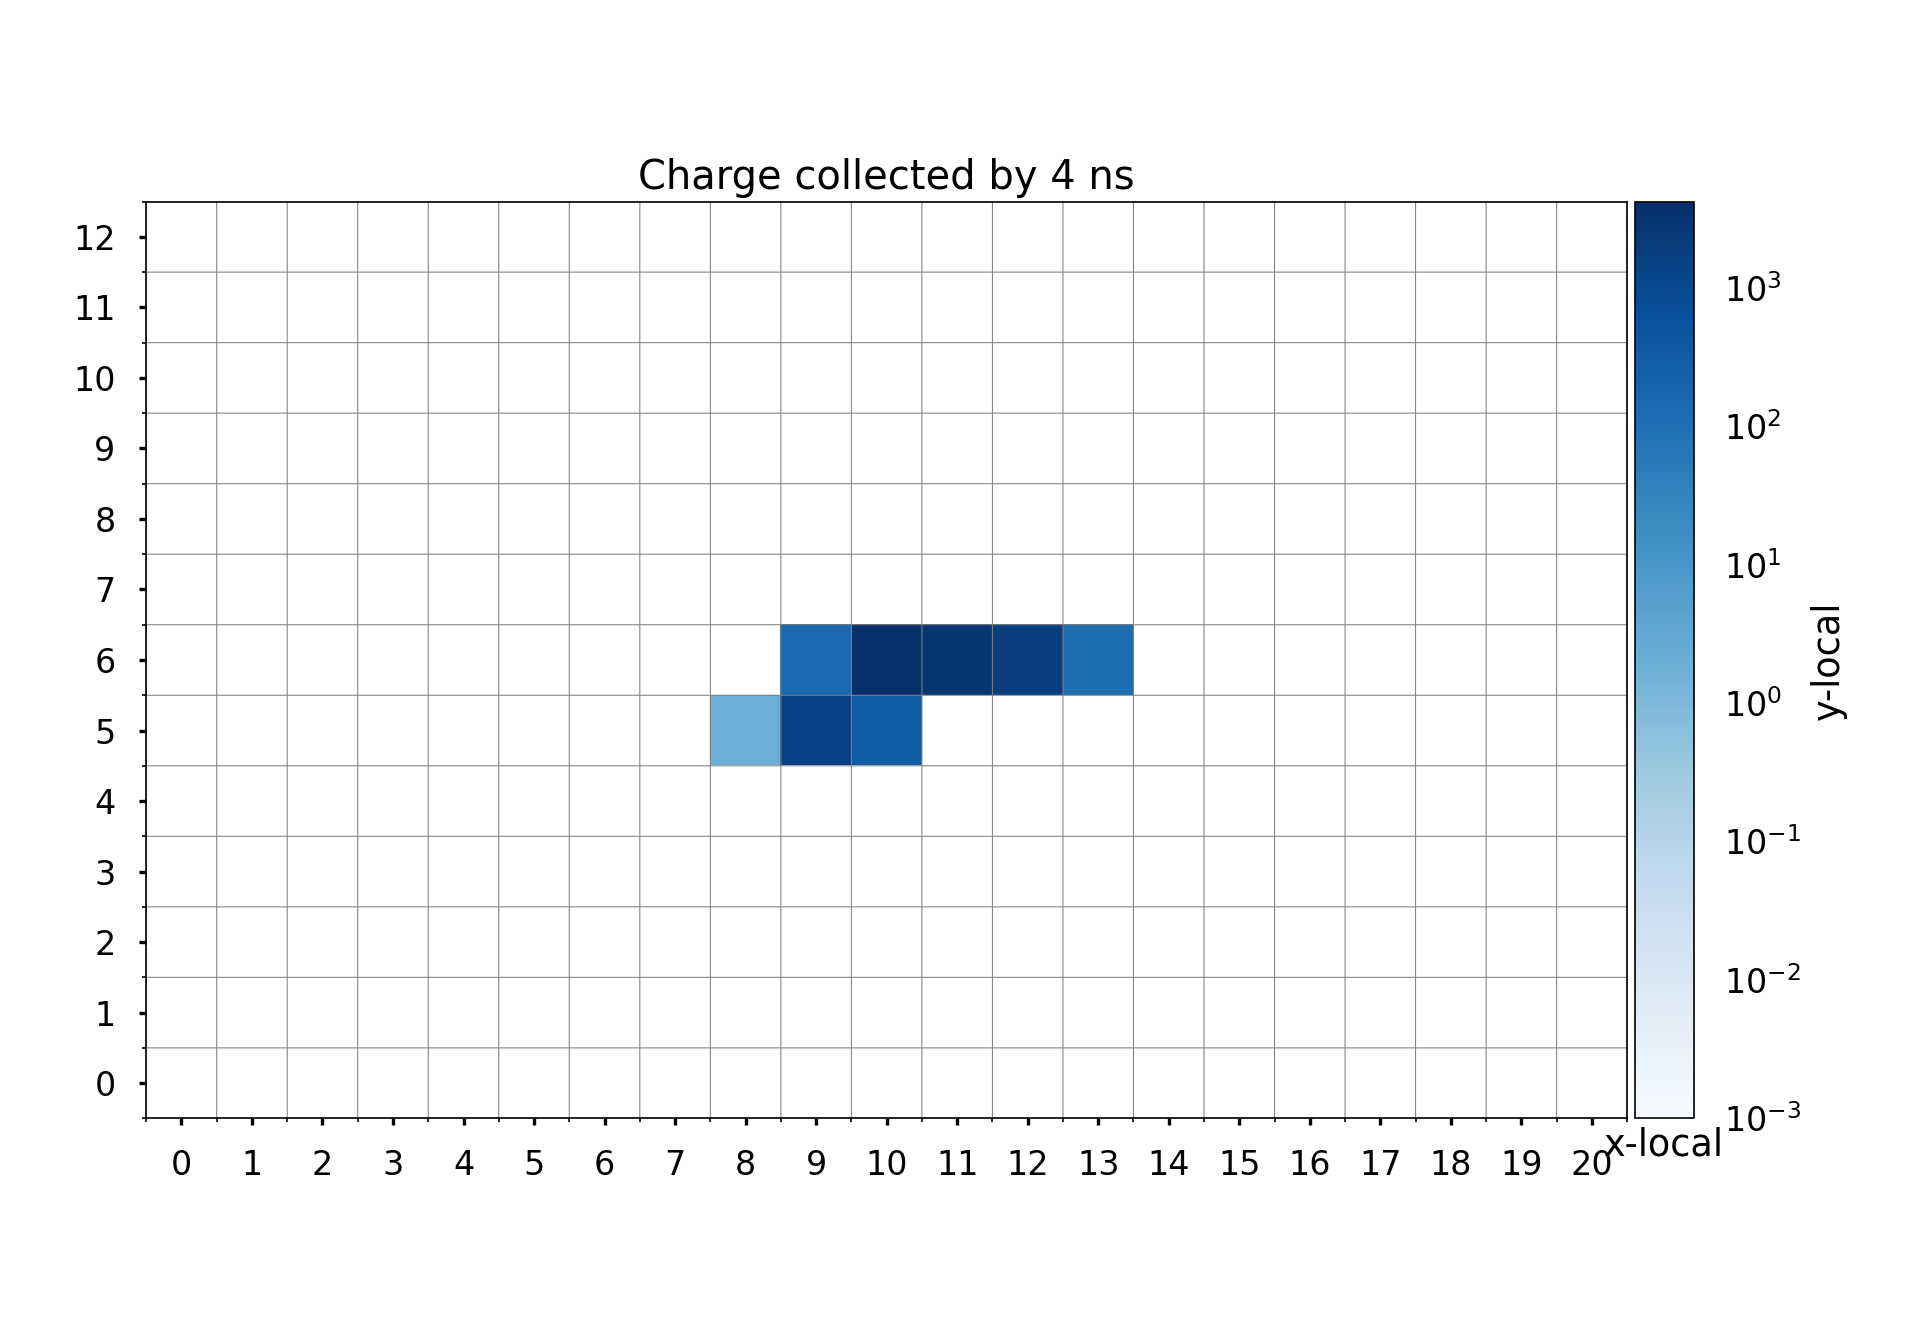
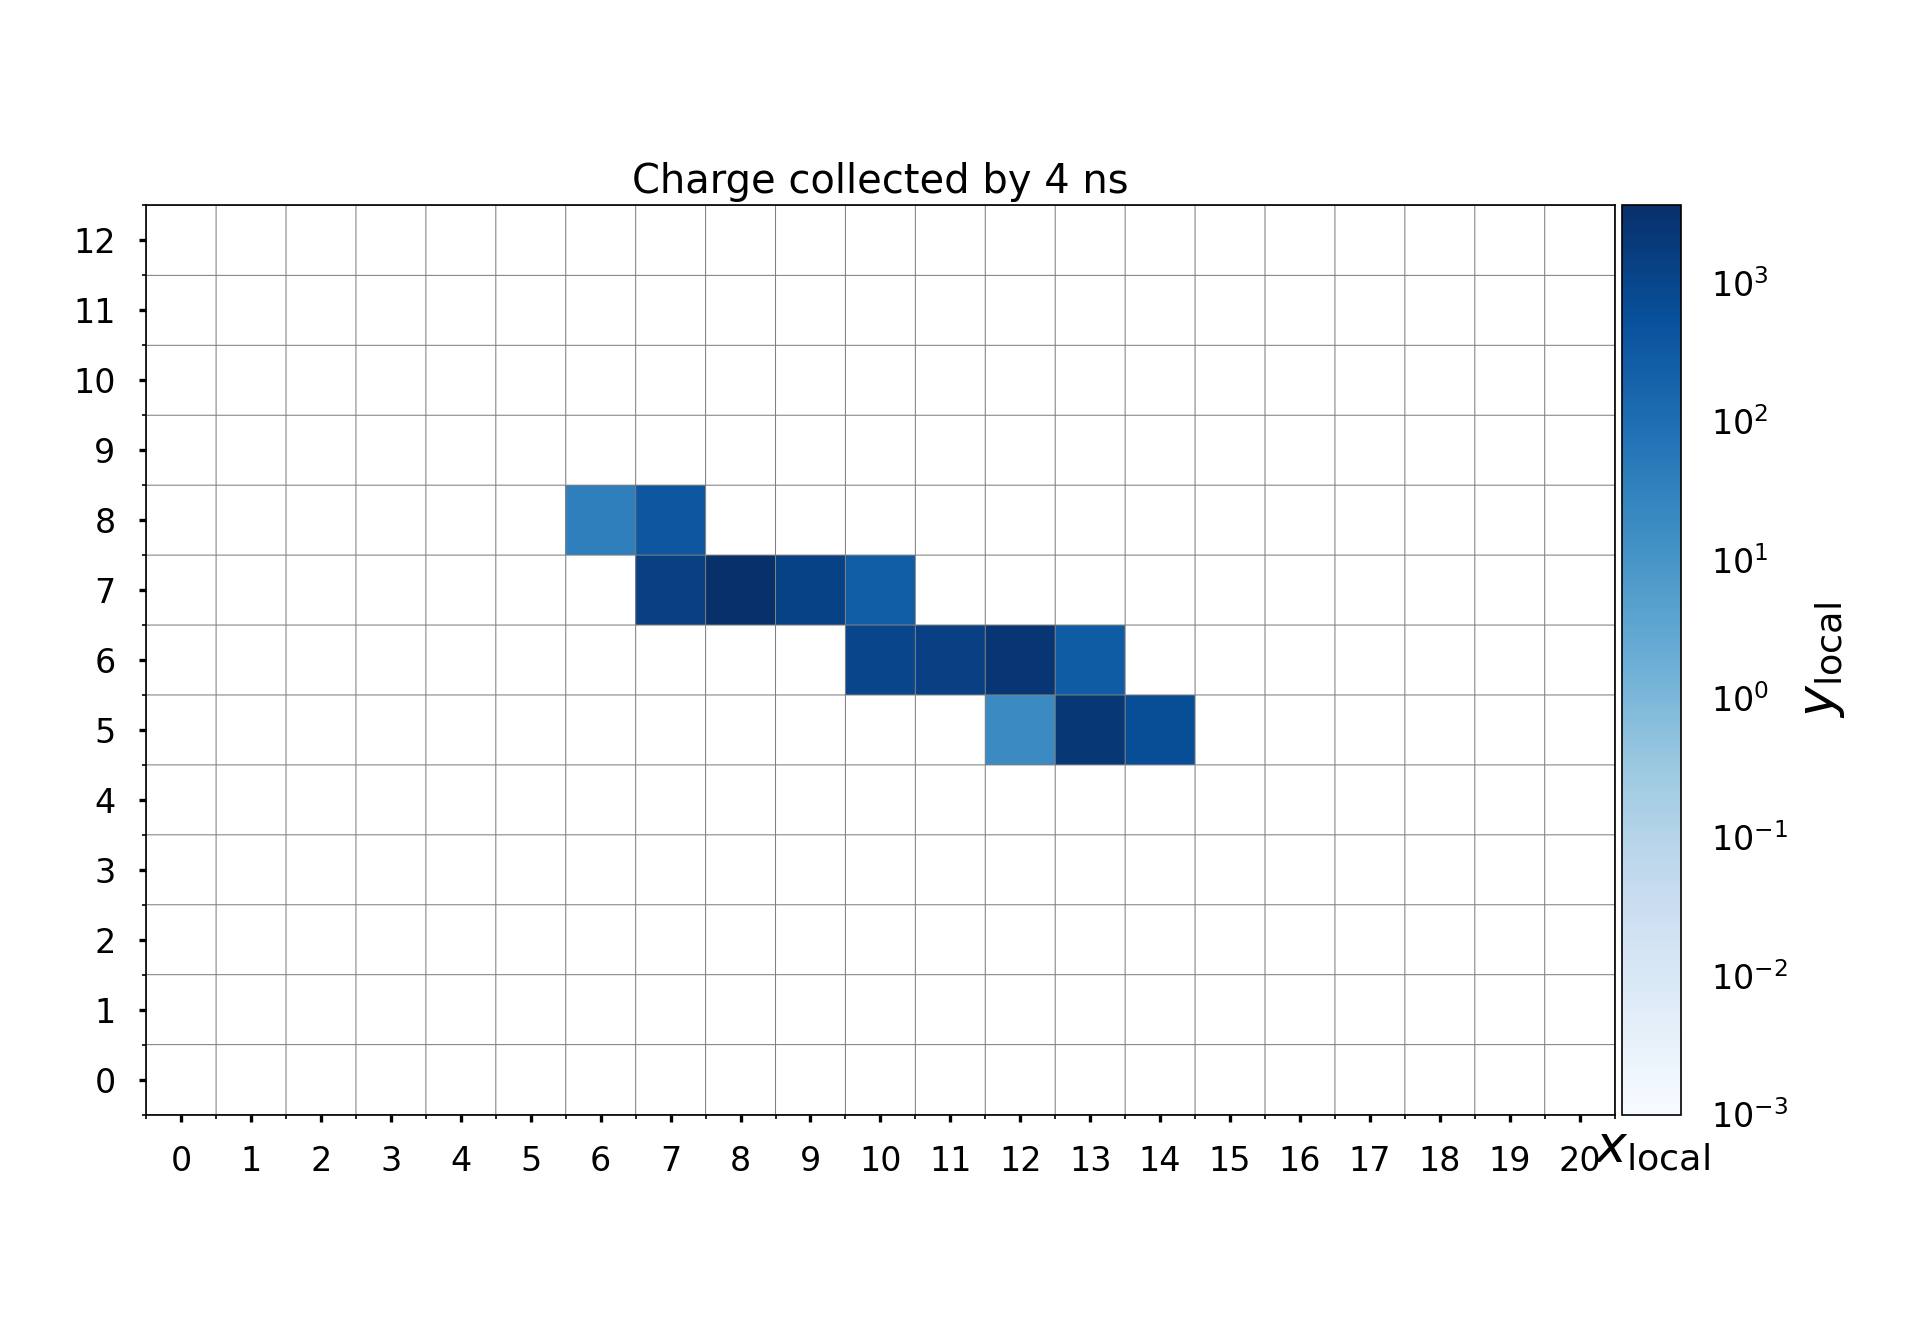
Made a prettier cluster for paper plot

diff --git a/paperPlots/profileSizeFeatures.py b/paperPlots/profileSizeFeatures.py
@@ -104,9 +104,10 @@ def plotClusterWithProfiles(cluster,figsize=(10.8, 7)):
     ax_top.set_yscale('log')
 
     # Top Labels & Arrow Placement
-    ax_top.text(0.54, 1.2, 'x-size', transform=ax_top.transAxes, ha='center', va='bottom',fontsize=plt.rcParams['axes.labelsize'])
+    ax_top.text(0.50, 1.2, r'$x_{\mathrm{size}}$', transform=ax_top.transAxes, ha='center', va='bottom',fontsize=plt.rcParams['axes.labelsize'])
     # ax_top.text(0.5, 1.05, r'$\longleftrightarrow$', transform=ax_top.transAxes, ha='center', va='bottom',fontsize=plt.rcParams['axes.labelsize'])
-    ax_top.text(1.01, 0.5, 'x-profile', transform=ax_top.transAxes, ha='left', va='center', rotation=-90,fontsize=plt.rcParams['axes.labelsize'])
+    # ax_top.text(1.01, 0.5, 'x-profile', transform=ax_top.transAxes, ha='left', va='center', rotation=-90,fontsize=plt.rcParams['axes.labelsize'])
+    ax_top.text(0.02, 0.3, r'$x_{\mathrm{profile}}$', transform=ax_top.transAxes, ha='left', va='center',fontsize=plt.rcParams['axes.labelsize'])
     x_start, x_end = get_profile_bounds_fraction(x_profile)
     ax_top.annotate('', xy=(x_start, 1.12), xytext=(x_end, 1.12), xycoords='axes fraction',
                     arrowprops=dict(arrowstyle='<->', color='black',lw=1.5))
@@ -120,8 +121,8 @@ def plotClusterWithProfiles(cluster,figsize=(10.8, 7)):
     ax_right.set_xscale('log')
 
     # Right Labels & Arrow Placement (re-ordered vertically to match top panel format)
-    ax_right.text(0.6, 1.01, 'y-profile', transform=ax_right.transAxes, ha='center', va='bottom',fontsize=plt.rcParams['axes.labelsize'])
-    ax_right.text(1.2, 0.47, 'y-size', transform=ax_right.transAxes, ha='left', va='center', rotation=-90,fontsize=plt.rcParams['axes.labelsize'])
+    ax_right.text(0.22, 0.75, r'$y_{\mathrm{profile}}$', transform=ax_right.transAxes, ha='center', va='bottom',rotation=-90,fontsize=plt.rcParams['axes.labelsize'])
+    ax_right.text(1.2, 0.545, r'$y_{\mathrm{size}}$', transform=ax_right.transAxes, ha='left', va='center', rotation=-90,fontsize=plt.rcParams['axes.labelsize'])
     # ax_right.text(1.05, 0.5, r'$\longleftrightarrow$', transform=ax_right.transAxes, ha='left', va='center',rotation=90,fontsize=plt.rcParams['axes.labelsize'])
     y_start, y_end = get_profile_bounds_fraction(y_profile)
     ax_right.annotate('', xy=(1.15, y_start), xytext=(1.15, y_end), xycoords='axes fraction',
@@ -158,8 +159,8 @@ def plotSingleCluster(cluster,cmap="Blues", ax = plt.gca(),doColorbar=True,title
     plt.tick_params(axis='y', which='both', left=False, right=False, labelleft=False)
     ax.grid(which="minor", color="grey", linestyle='-', linewidth=0.5,snap=False)
 
-    plt.xlabel("x-local")
-    plt.ylabel("y-local")
+    plt.xlabel(r"$x_{\mathrm{local}}$",fontsize=25)
+    plt.ylabel(r"$y_{\mathrm{local}}$",fontsize=25)
     
     plt.tight_layout(pad=3.5)
     return im, ax
@@ -218,13 +219,22 @@ def main():
     reconDF = pd.read_pickle(pklPath)
     # clustersSig = recon2Dsig.to_numpy().reshape(recon2Dsig.shape[0],13,21)
     # print(reconDF.iloc[0,0:273].to_numpy())
-    index = 2
+    index = 373742
+    index = 21
+    index = 819117
+    reconDF = reconDF.query("source == 'bib_mp'")
+    nPix = np.count_nonzero(reconDF.iloc[:,0:273].to_numpy(),axis=1)
+    print(np.where(nPix>10))
     cluster = reconDF.iloc[index,0:273].to_numpy().reshape(13,21).astype(float)
+    print(reconDF.iloc[index,273])
+    print(np.unique(reconDF.iloc[:,273]))
+    print((reconDF.iloc[:,273]))
+    print(len(reconDF))
     # print(cluster)
     plotSingleCluster(cluster)
     plt.savefig("./cluster.png")
 
-    plotClusterWithProfiles(cluster)
+    plotClusterWithProfiles(cluster,figsize=(8.1,5.28))
     plt.savefig("./clusterFeatures.png")
 
     # print(cluster)
